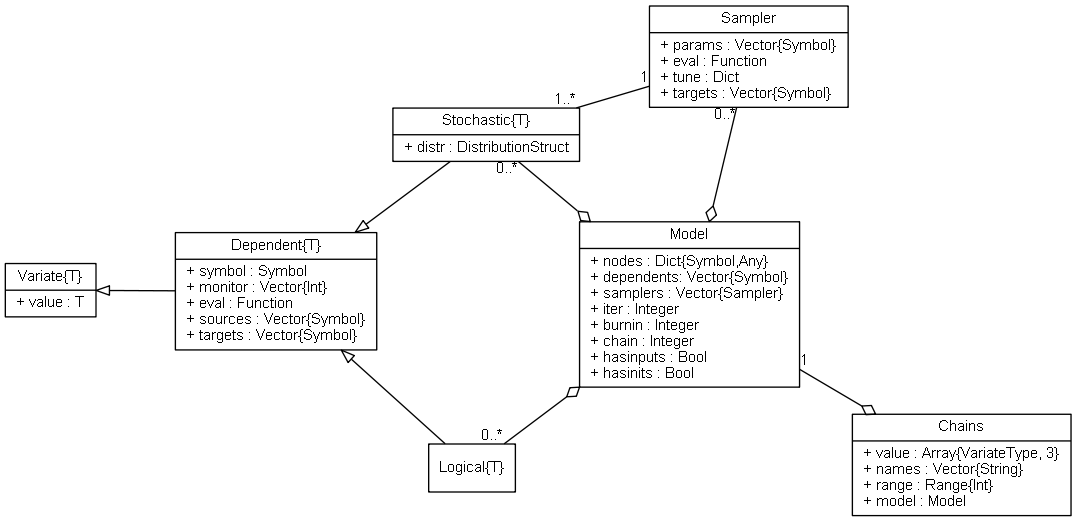
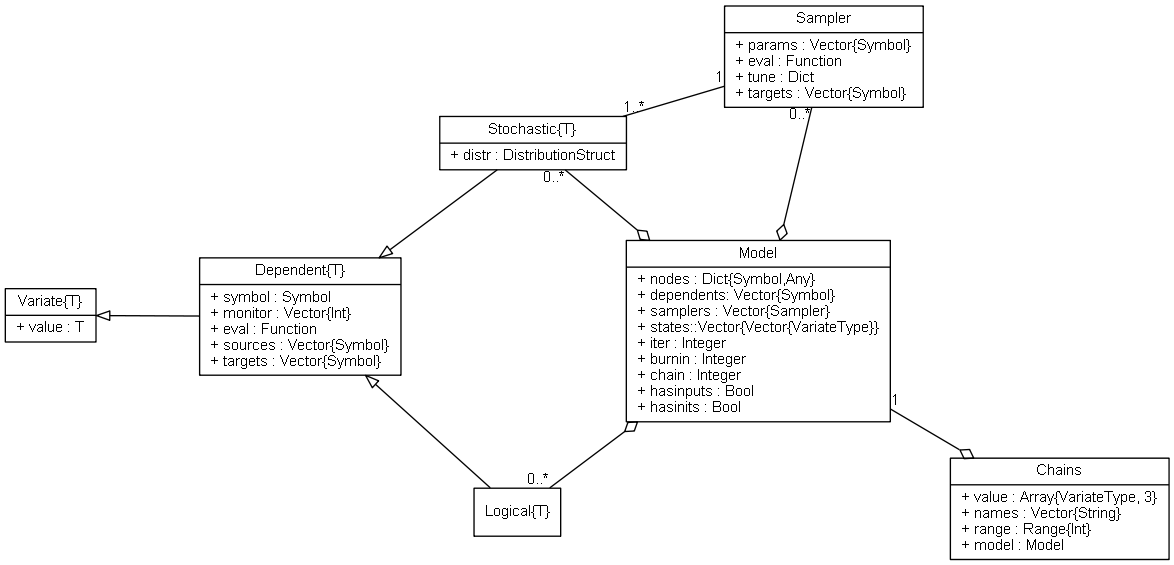
Add documentation for restarting chains.

diff --git a/doc/tutorial.rst b/doc/tutorial.rst
@@ -326,7 +326,7 @@ Initial values for ``y`` are those in the observed response vector.  Likewise, t
 MCMC Engine
 ^^^^^^^^^^^
 
-MCMC simulation of draws from the posterior distribution of a declared set of model nodes and sampling scheme is performed with the ``mcmc`` function.  As shown below, the first three arguments are an ``Model`` object, a dictionary of values for input nodes, and a dictionary vector of initial values.  The number of draws to generate in each simulation run is given as the fourth argument.  The remaining arguments are named such that ``burnin`` is the number of initial values to discard to allow for convergence; ``thin`` defines the interval between draws to be retained in the output; and ``chains`` specifies the number of times to run the simulator.  The simulation of multiple chains will be executed in parallel automatically if **julia** is running in multi-processor mode on a multi-processor system.  Multi-processor mode can be started with the command line argument ``julia -p n``, where ``n`` is the number of available processors.  See the **julia** documentation on `parallel computing <http://julia.readthedocs.org/en/latest/manual/parallel-computing/>`_ for details. 
+MCMC simulation of draws from the posterior distribution of a declared set of model nodes and sampling scheme is performed with the :func:`mcmc` function.  As shown below, the first three arguments are an ``Model`` object, a dictionary of values for input nodes, and a dictionary vector of initial values.  The number of draws to generate in each simulation run is given as the fourth argument.  The remaining arguments are named such that ``burnin`` is the number of initial values to discard to allow for convergence; ``thin`` defines the interval between draws to be retained in the output; and ``chains`` specifies the number of times to run the simulator.  The simulation of multiple chains will be executed in parallel automatically if **julia** is running in multi-processor mode on a multi-processor system.  Multi-processor mode can be started with the command line argument ``julia -p n``, where ``n`` is the number of available processors.  See the **julia** documentation on `parallel computing <http://julia.readthedocs.org/en/latest/manual/parallel-computing/>`_ for details. 
 
 .. code-block:: julia
 
@@ -456,7 +456,8 @@ Additionally, sampler output can be subsetted to perform posterior inference on 
 .. code-block:: julia
 
 	## Subset Sampler Output
-	>>> describe(sim1[1000:5000, ["beta[1]", "beta[2]"], :])
+	>>> sim = sim1[1000:5000, ["beta[1]", "beta[2]"], :]
+	>>> describe(sim)
 	
 	Iterations = 1000:5000
 	Thinning interval = 2
@@ -477,6 +478,37 @@ Additionally, sampler output can be subsetted to perform posterior inference on 
 
 
 .. _section-Line-Plotting:
+
+
+Restarting the Sampler
+^^^^^^^^^^^^^^^^^^^^^^
+
+Convergence diagnostics or posterior summaries may indicate that additional draws from the posterior are needed for inference.  In such cases, the :func:`mcmc` function can be used to restart the sampler with previously generated output, as illustrated below.
+
+.. code-block:: julia
+
+	## Restart the Sampler
+	>>> sim = mcmc(sim1, 5000)
+	>>> describe(sim)
+
+	Iterations = 252:15000
+	Thinning interval = 2
+	Number of chains = 3
+	Samples per chain = 7375
+
+	Empirical Posterior Estimates:
+	4x6 Array{Any,2}:
+	 ""          "Mean"    "SD"      "Naive SE"   "MCSE"          "ESS"
+	 "s2"       1.3584    2.01987   0.0135794    0.0614207    4891.59  
+	 "beta[1]"  0.614309  1.24606   0.00837718   0.0159013   11656.0   
+	 "beta[2]"  0.796488  0.374392  0.00251701   0.00461965  12054.8   
+
+	Quantiles:
+	4x6 Array{Any,2}:
+	 ""           "2.5%"       "25.0%"     "50.0%"   "75.0%"   "97.5%"
+	 "s2"        0.174712     0.398579    0.697138  1.3956    7.29569 
+	 "beta[1]"  -1.90886     -0.00502574  0.591263  1.19065   3.22561 
+	 "beta[2]"   0.00943373   0.620339    0.803543  0.982711  1.55282 
 
 Plotting
 ^^^^^^^^

diff --git a/doc/mcmc/model.rst b/doc/mcmc/model.rst
@@ -18,9 +18,10 @@ Fields
 * ``nodes::Dict{Symbol,Any}`` : a dictionary containing all input, logical, and stochastic model nodes.
 * ``dependents::Vector{Symbol}`` : symbols of all ``Dependent`` nodes in topologically sorted order so that a given node in the vector is conditionally independent of subsequent nodes, given the previous ones.
 * ``samplers::Vector{Sampler}`` : sampling functions for updating blocks of stochastic nodes.
+* ``states::Vector{Vector{VariateType}}`` : states of chains at the end of a possible series of MCMC runs.
 * ``iter::Integer`` : current MCMC draw from the target distribution.
 * ``burnin::Integer`` : number of initial draws to discard as a burn-in sequence to allow for convergence.
-* ``chain::Integer`` : current run of the MCMC simulator in a possible sequence of runs.
+* ``chain::Integer`` : current run of an MCMC simulator in a possible series of runs.
 * ``hasinputs::Bool`` : whether values have been assigned to the input nodes.
 * ``hasinits::Bool`` : whether initial values have been assigned to stochastic nodes.
 
@@ -165,12 +166,14 @@ Methods
 .. function:: mcmc(m::Model, inputs::Dict{Symbol}, \
 				inits::Vector{Dict{Symbol,Any}}, iters::Integer; \
 				burnin::Integer=0, thin::Integer=1, chains::Integer=1)
+			  mcmc(c::Chains, iters::Integer)
 
 	Simulate MCMC draws for a specified model.
 	
 	**Arguments**
 	
 		* ``m`` : a specified mode.
+		* ``c`` : chains from a previous call to ``mcmc`` for which to simulate additional draws.
 		* ``inputs`` : a dictionary of values for input model nodes.  Dictionary keys and values should be given for each input node.
 		* ``inits`` : a vector of dictionaries that contain initial values for stochastic model nodes.  Dictionary keys and values should be given for each stochastic node.  Consecutive runs of the simulator will iterate through the vector's dictionary elements.
 		* ``iters`` : number of draws to generate for each simulation run.
